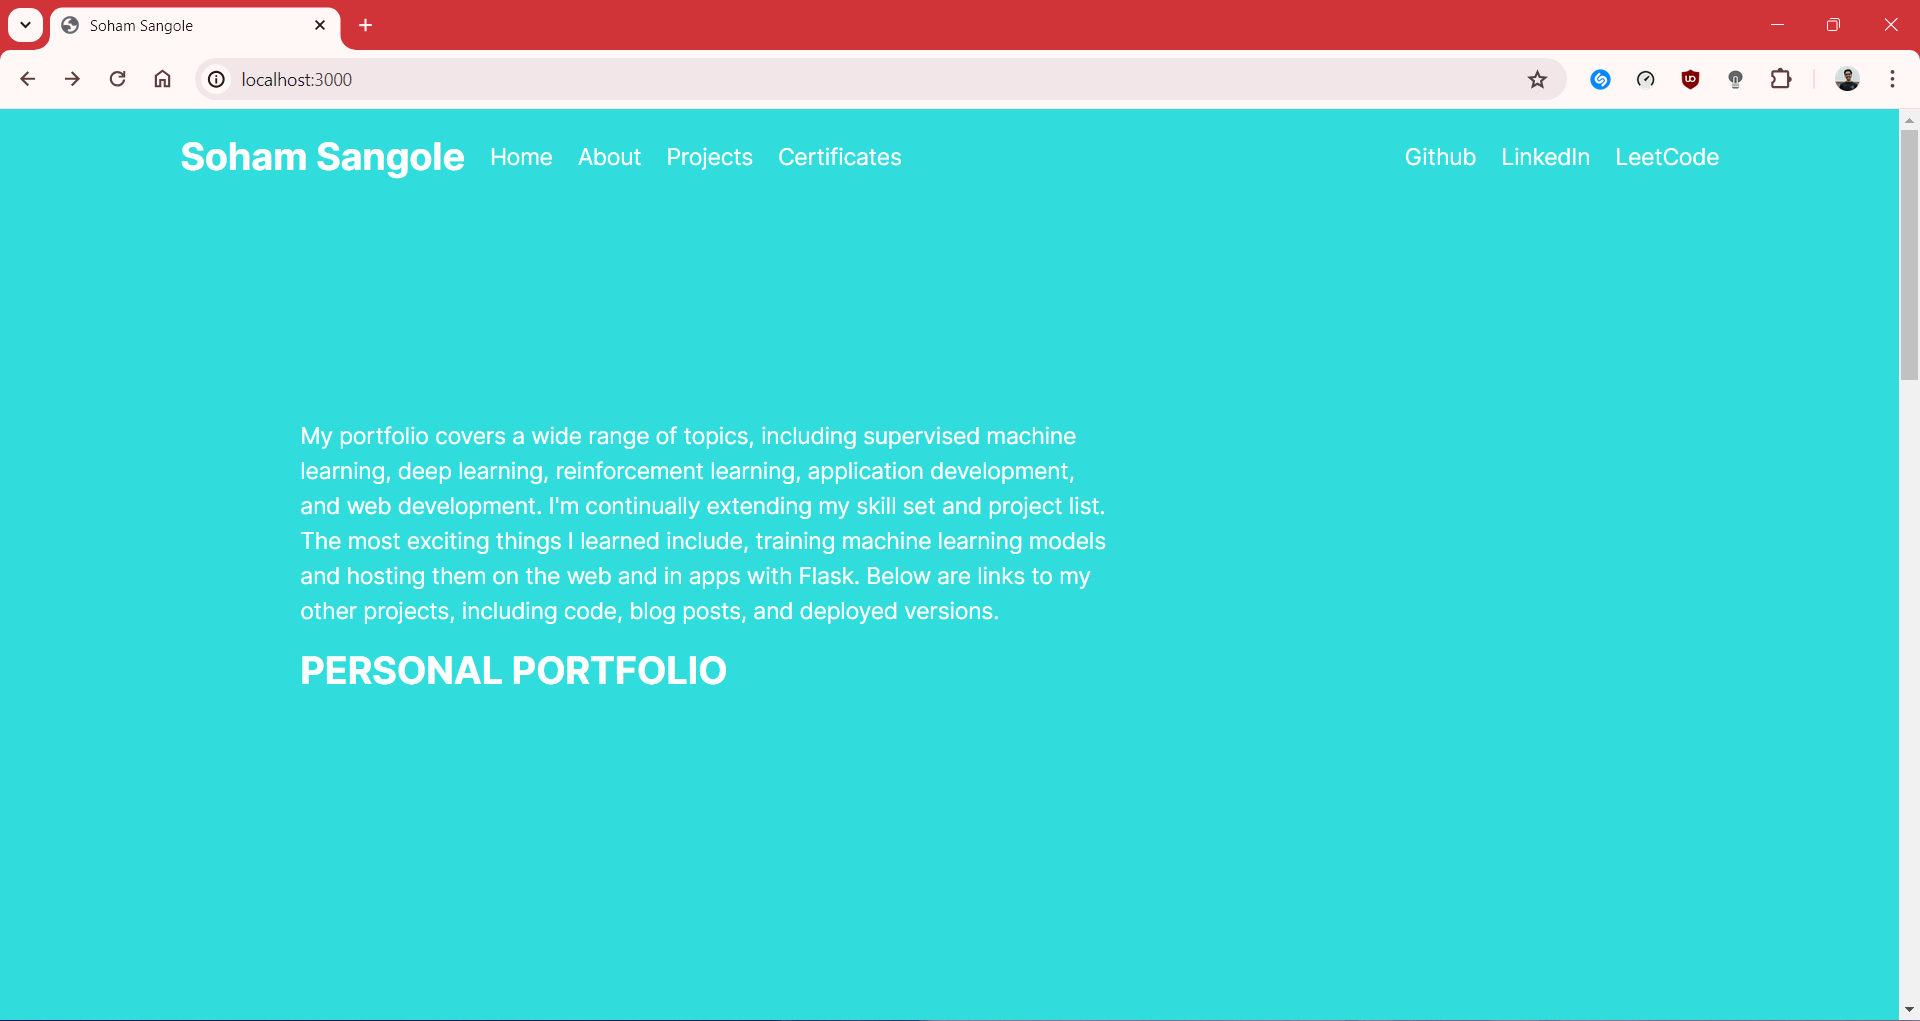
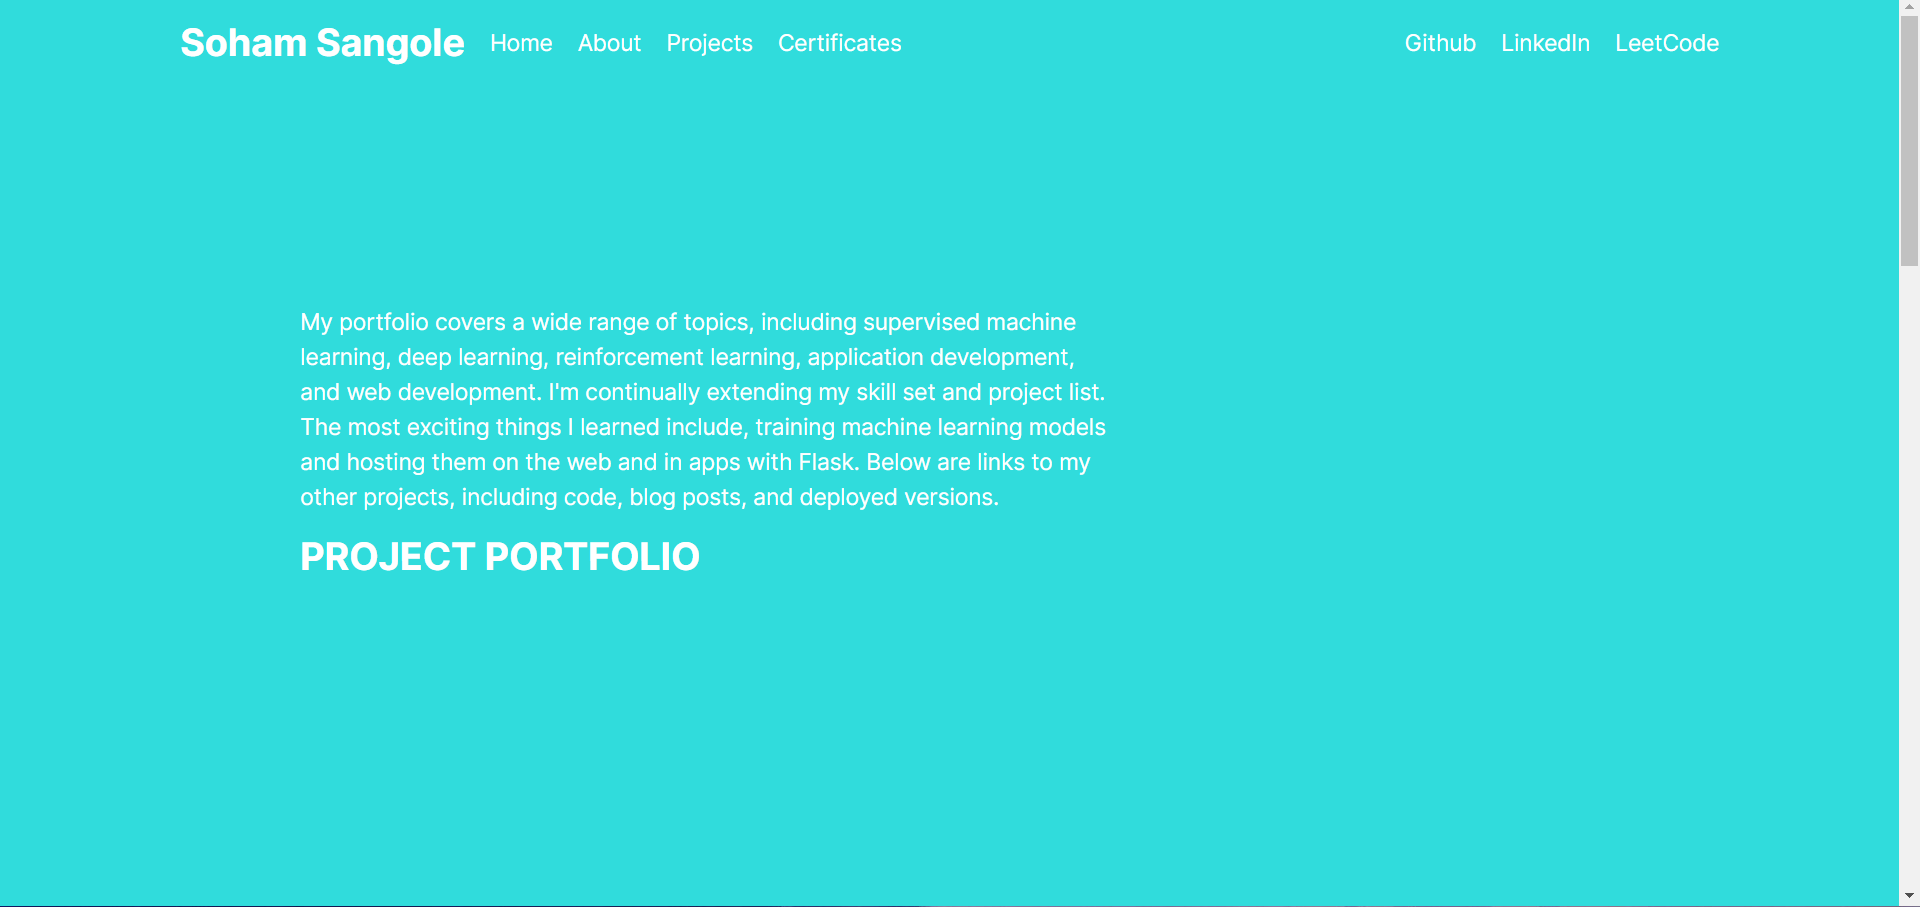
Updated Projects

Changed region(s): [[0.0, 0.0, 1.0, 0.1852], [0.1562, 0.3396, 0.5938, 0.6792], [0.9688, 0.2778, 1.0, 0.3705]]

diff --git a/portfolio/src/app/TopText.js b/portfolio/src/app/TopText.js
@@ -7,7 +7,7 @@ const TopText = () => {
                 <p className="text-lg text-white">
                     My portfolio covers a wide range of topics, including supervised machine learning, deep learning, reinforcement learning, application development, and web development. I&apos;m continually extending my skill set and project list. The most exciting things I learned include, training machine learning models and hosting them on the web and in apps with Flask. Below are links to my other projects, including code, blog posts, and deployed versions.
                 </p>
-                <h1 className="text-3xl font-bold text-white py-4">PERSONAL PORTFOLIO</h1>
+                <h1 className="text-3xl font-bold text-white py-4">PROJECT PORTFOLIO</h1>
             </div>
         </div>
     )
